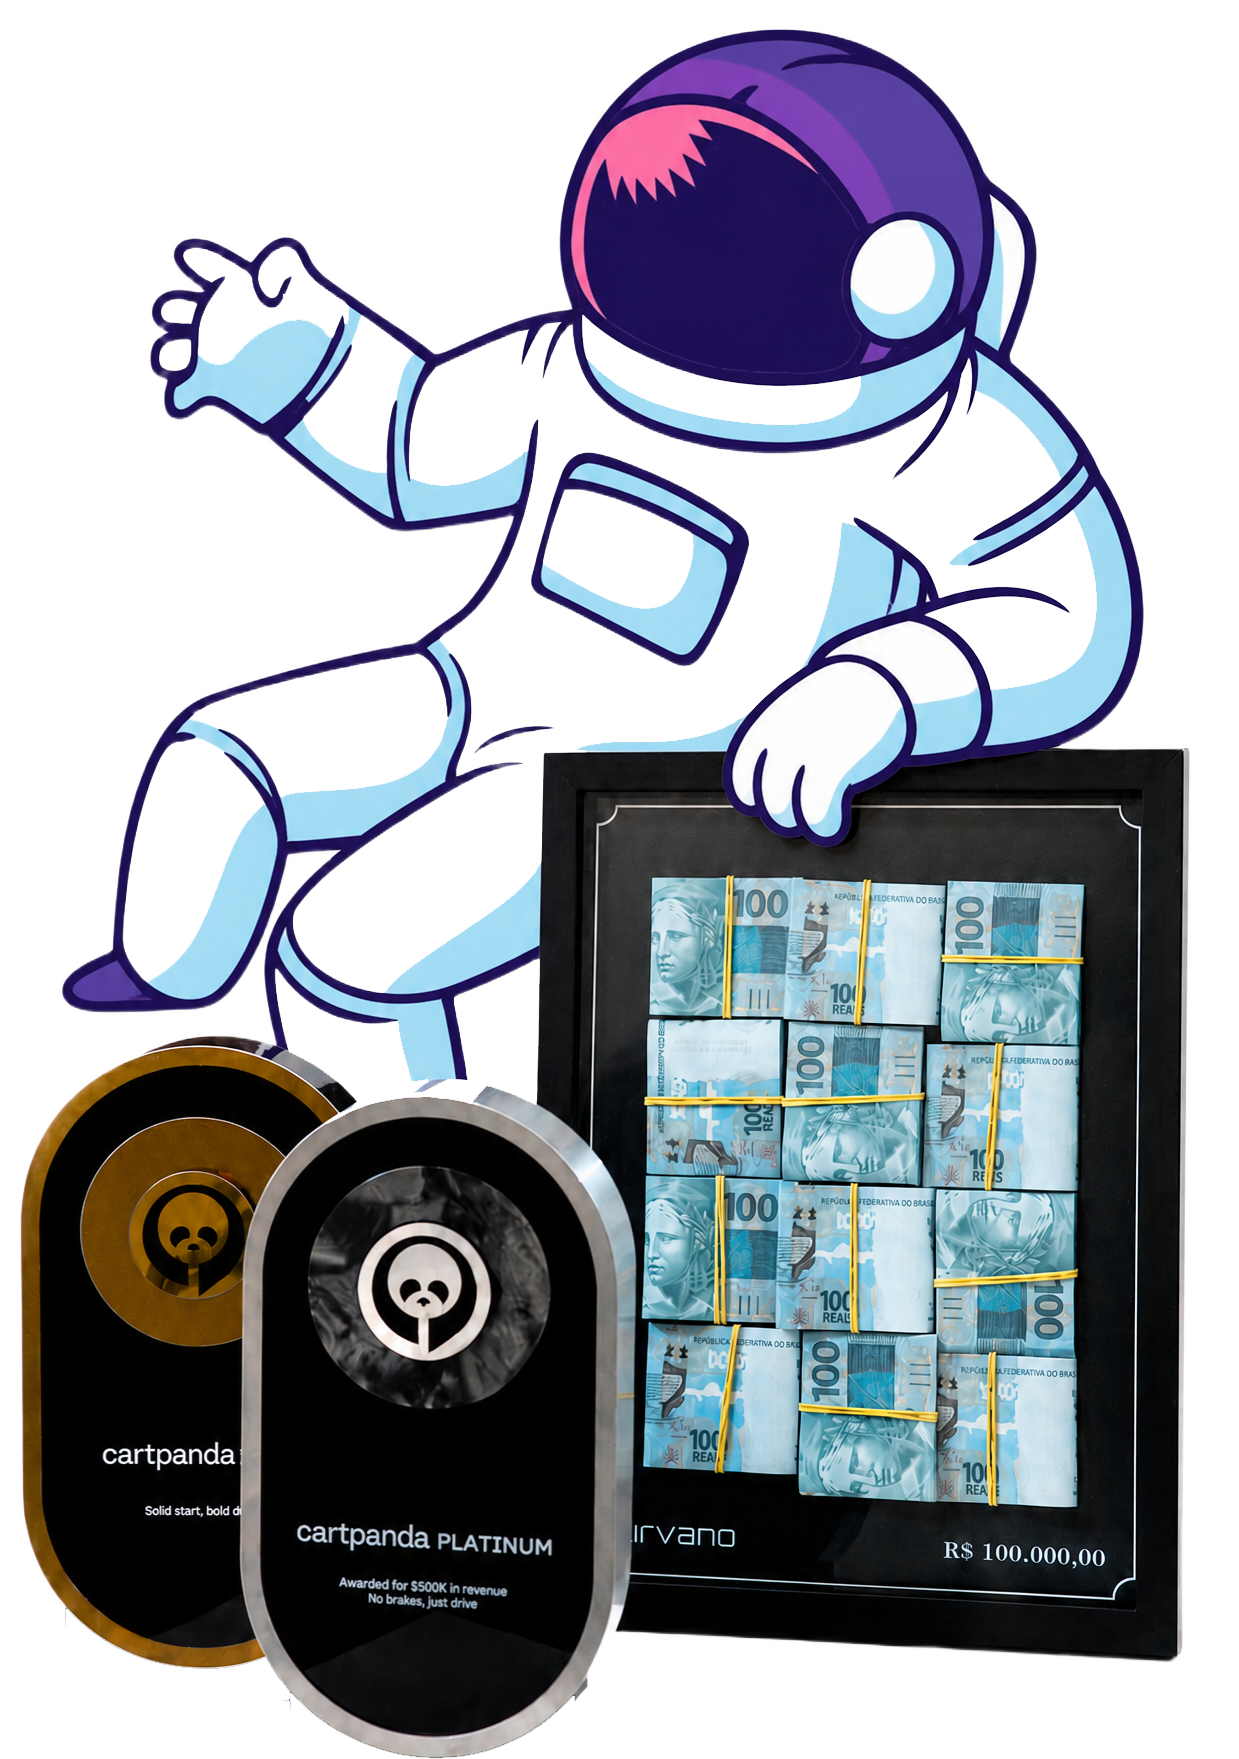
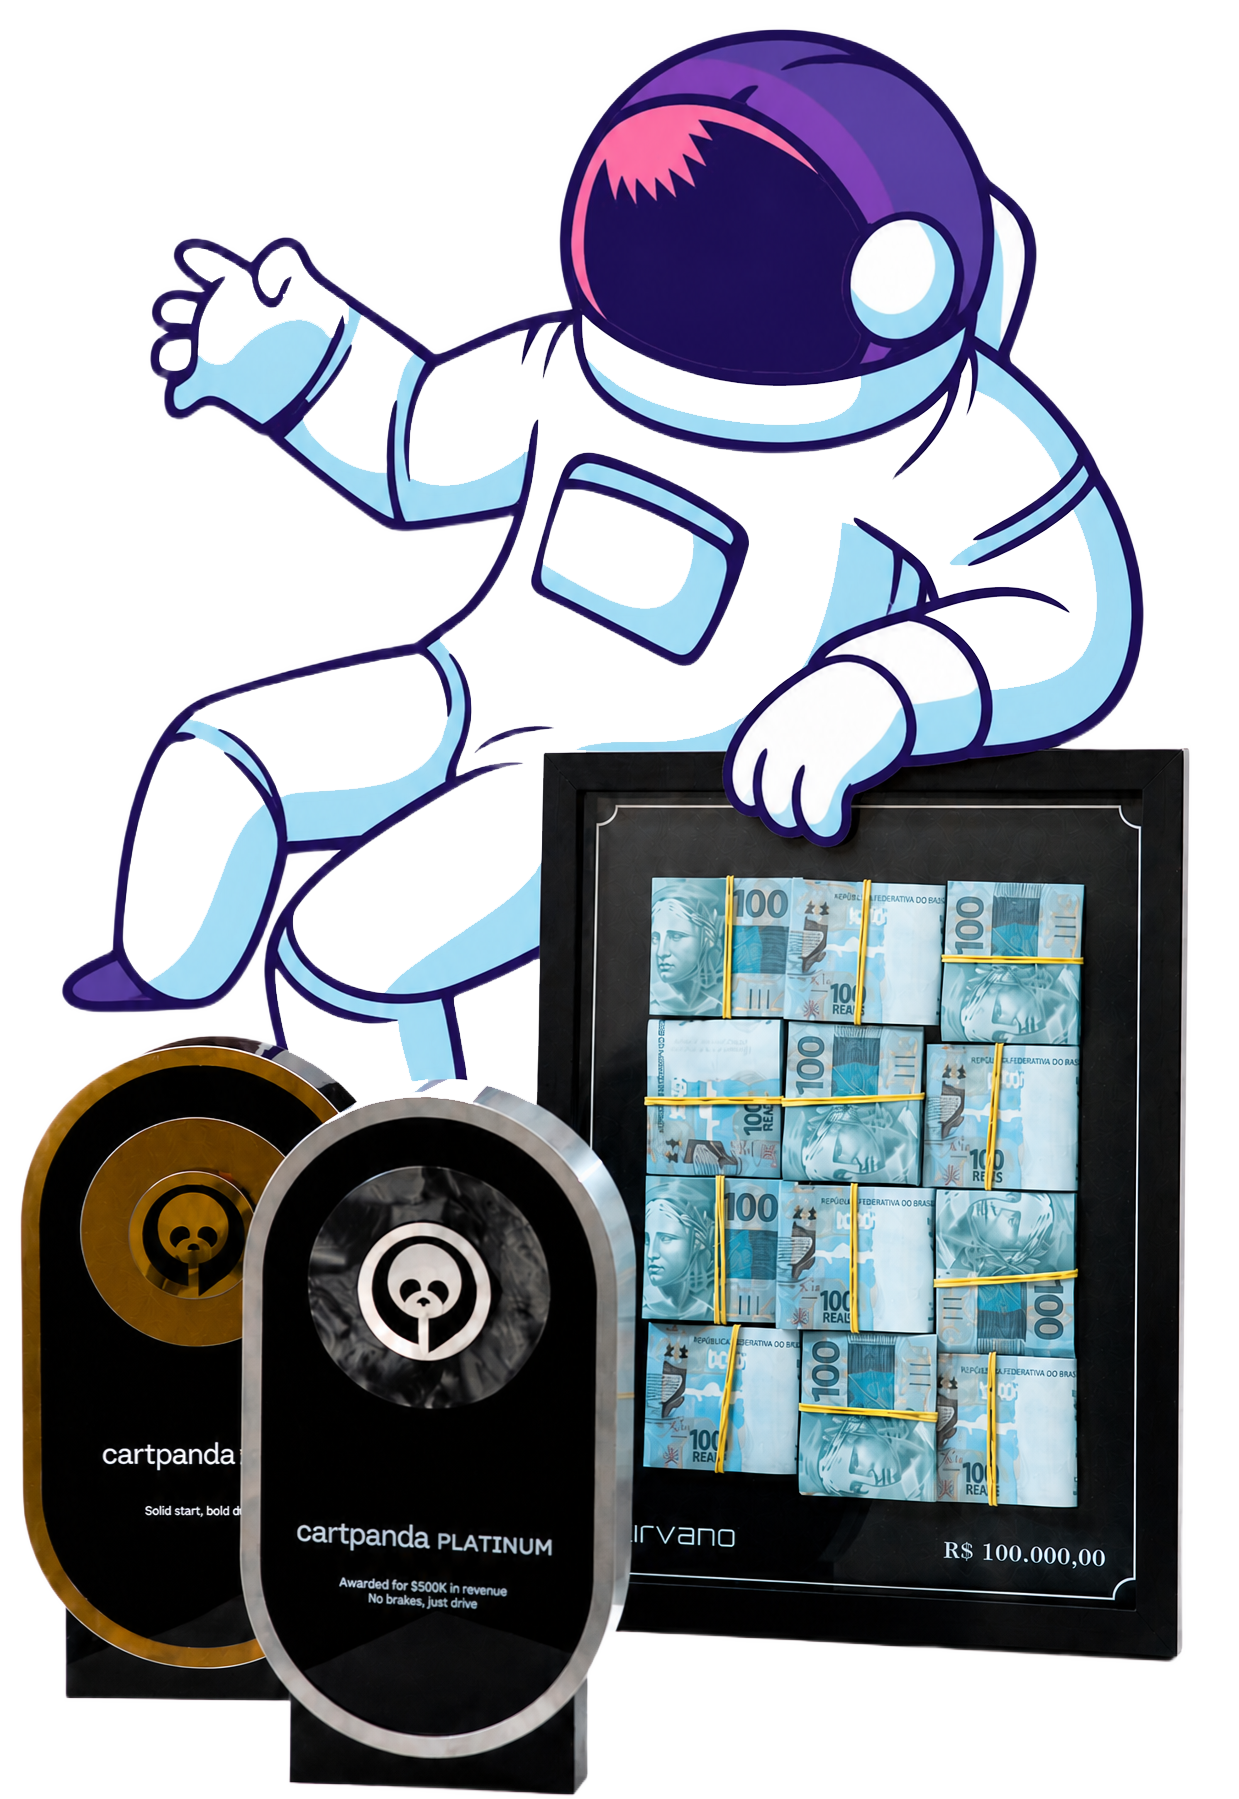
troca da img

diff --git a/src/pages/Landing.jsx b/src/pages/Landing.jsx
@@ -290,13 +290,13 @@ export default function Landing() {
         {/* ── Quem está por trás ── */}
         <section className="max-w-5xl mx-auto px-4 sm:px-6 py-12 sm:py-16">
           <motion.h2 variants={fadeUp} initial="hidden" whileInView="show" viewport={{ once: true }} className="text-2xl sm:text-4xl font-extrabold text-stone-800 text-center text-balance mb-10">Quem está por trás</motion.h2>
-          <div className="flex flex-col lg:flex-row items-center gap-8 lg:gap-12">
+          <div className="flex flex-col lg:flex-row-reverse items-center gap-8 lg:gap-12">
             <Float className="relative w-full max-w-[240px] sm:max-w-xs lg:max-w-sm shrink-0" y={12} dur={5}>
               <div aria-hidden className="absolute -bottom-4 right-0 w-40 h-40 sm:w-48 sm:h-48 rounded-full bg-gradient-to-br from-primary-500/45 to-pink-500/35 blur-3xl" />
               <img src={joseFoto} alt="" className="relative w-full h-auto object-contain drop-shadow-[0_30px_45px_rgba(30,27,75,0.35)]" />
             </Float>
             <motion.div variants={fadeUp} initial="hidden" whileInView="show" viewport={{ once: true }} className="flex-1 text-center lg:text-left">
-              <img src={codenxtLogo} alt="CODENXT" className="h-9 sm:h-11 w-auto object-contain mx-auto lg:mx-0" />
+              <img src={codenxtLogo} alt="CODENXT" className="h-9 sm:h-11 w-auto object-contain mx-auto lg:ml-auto lg:mr-0" />
               <p className="mt-5 text-stone-500 leading-relaxed italic">
                 Desenvolvido e administrado pela equipe da{' '}
                 <a href="https://codenxt.online" target="_blank" rel="noopener noreferrer" className="not-italic font-semibold text-primary-600 hover:text-primary-700 underline decoration-primary-300 underline-offset-2">CODENXT</a>
@@ -308,7 +308,7 @@ export default function Landing() {
 
         {/* ── Planos ── */}
         <section id="planos" className="relative max-w-6xl mx-auto px-4 mt-16 sm:px-6 py-12 sm:py-16 scroll-mt-20">
-          <div aria-hidden className="hidden lg:block absolute left-[-7%] top-[26%] -translate-y-1/2 w-[480px] xl:w-[600px] -z-10 pointer-events-none">
+          <div aria-hidden className="hidden lg:block absolute left-[-3%] top-[26%] -translate-y-1/2 w-[260px] xl:w-[320px] -z-10 pointer-events-none">
             <Float y={16} dur={6}><img src={astroFoguete} alt="" className="w-full max-w-none select-none" style={{ transform: 'scaleX(-1)' }} /></Float>
           </div>
           <div aria-hidden className="lg:hidden absolute right-[-8%] top-[-5%] w-52 sm:w-72 -z-10 pointer-events-none">